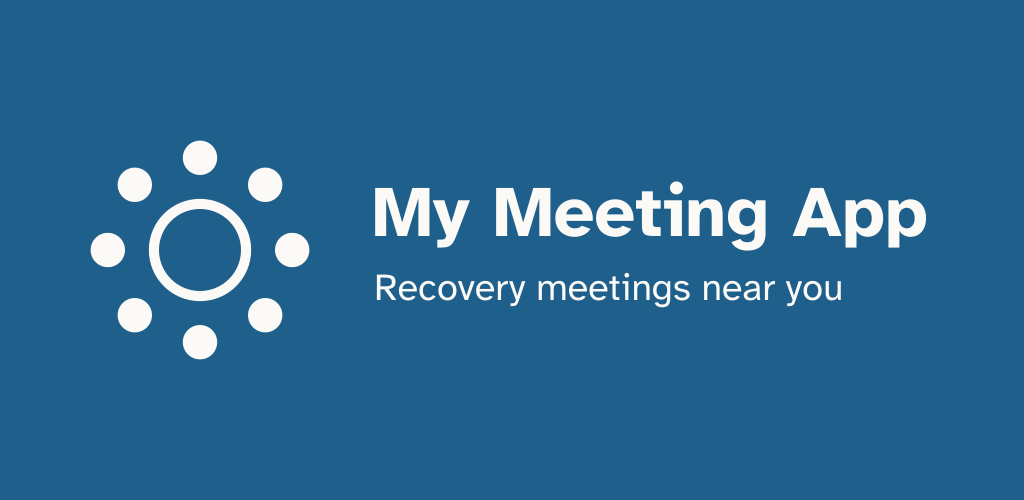
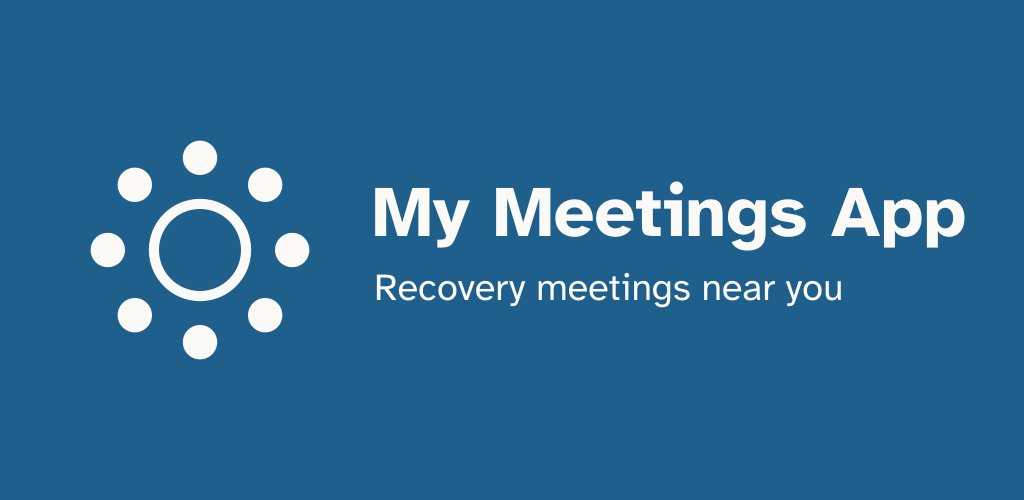
feat(brand): the app is My Meetings App
BRAND.name, the home-screen name, the website, both store listings (title now
just "My Meetings App", 30-character limit), the Play feature graphic, SPEC and
docs. The technical slug stays mymeetingapp (bundle id, Expo slug, User-Agent).
The App Store name changes with 1.0.1: 1.0's listing is locked in review.

Changed region(s): [[0.75, 0.36, 0.9688, 0.51]]

diff --git a/apps/mobile/test/nearby.test.tsx b/apps/mobile/test/nearby.test.tsx
@@ -248,7 +248,7 @@ describe("Nearby without location", () => {
     await api.close();
     await fireEvent.press(screen.getByRole("button", { name: "Use my location" }));
     expect(await screen.findByRole("alert")).toHaveTextContent(
-      "We couldn't reach My Meeting App, and this isn't saved on your phone yet. Check your connection and try again.",
+      "We couldn't reach My Meetings App, and this isn't saved on your phone yet. Check your connection and try again.",
     );
     api = await startApi();
   });
@@ -371,7 +371,7 @@ describe("Nearby with location", () => {
     await fireEvent.press(await screen.findByRole("button", { name: "Use my location" }));
     expect(
       await screen.findByText(
-        "Location is off for My Meeting App. Search by city, zip code or address instead, or turn location on in Settings.",
+        "Location is off for My Meetings App. Search by city, zip code or address instead, or turn location on in Settings.",
       ),
     ).toBeOnTheScreen();
     const settings = screen.getByRole("button", { name: "Open Settings" });
@@ -390,7 +390,7 @@ describe("Nearby with location", () => {
     await fireEvent.press(await screen.findByRole("button", { name: "Open Settings" }));
     expect(
       await screen.findByText(
-        "This phone couldn't open Settings. You can turn location on for My Meeting App in the Settings app.",
+        "This phone couldn't open Settings. You can turn location on for My Meetings App in the Settings app.",
       ),
     ).toBeOnTheScreen();
   });
@@ -1186,7 +1186,7 @@ describe("results", () => {
     await fireEvent.press(await screen.findByRole("button", { name: "Maryville, TN" }));
     expect(
       await screen.findByText(
-        "Showing the copy saved today at 6:00 AM. We couldn't reach My Meeting App, so it may be out of date.",
+        "Showing the copy saved today at 6:00 AM. We couldn't reach My Meetings App, so it may be out of date.",
       ),
     ).toBeOnTheScreen();
     expect(screen.getByText("Near Group")).toBeOnTheScreen();
@@ -1205,7 +1205,7 @@ describe("results", () => {
     await fireEvent.press(await screen.findByRole("button", { name: "Maryville, TN" }));
     expect(
       await screen.findByText(
-        "Showing the copy saved today at 3:00 PM. We couldn't reach My Meeting App, so it may be out of date.",
+        "Showing the copy saved today at 3:00 PM. We couldn't reach My Meetings App, so it may be out of date.",
       ),
     ).toBeOnTheScreen();
     expect(screen.getByText("No in-person meetings within 16 miles of Maryville, TN.")).toBeOnTheScreen();
@@ -1216,7 +1216,7 @@ describe("results", () => {
     await launchNearby();
     await searchFor("Maryville, TN");
     expect(await screen.findByRole("alert")).toHaveTextContent(
-      "We couldn't reach My Meeting App, and this isn't saved on your phone yet. Check your connection and try again.",
+      "We couldn't reach My Meetings App, and this isn't saved on your phone yet. Check your connection and try again.",
     );
     expect(screen.getByRole("button", { name: "Change place" })).toBeOnTheScreen();
   });
@@ -1233,7 +1233,7 @@ describe("results", () => {
     await fireEvent.press(await screen.findByRole("button", { name: "Use my location" }));
     expect(
       await screen.findByText(
-        "Showing your last search, near Maryville, TN, saved today at 6:40 AM. We couldn't reach My Meeting App, so it may be out of date.",
+        "Showing your last search, near Maryville, TN, saved today at 6:40 AM. We couldn't reach My Meetings App, so it may be out of date.",
       ),
     ).toBeOnTheScreen();
     expect(screen.getByText("Near Maryville, TN")).toBeOnTheScreen();
@@ -1273,7 +1273,7 @@ describe("results", () => {
     await searchFor("Maryville, TN");
     expect(
       await screen.findByText(
-        "Showing your last search, near your earlier location, saved today at 6:40 AM. We couldn't reach My Meeting App, so it may be out of date.",
+        "Showing your last search, near your earlier location, saved today at 6:40 AM. We couldn't reach My Meetings App, so it may be out of date.",
       ),
     ).toBeOnTheScreen();
     expect(screen.getByText("Near your earlier location")).toBeOnTheScreen();
@@ -1391,7 +1391,7 @@ describe("Search farther", () => {
     await fireEvent.press(button);
     expect(
       await screen.findByText(
-        "Showing your last search, near Maryville, TN, saved today at 5:30 AM. We couldn't reach My Meeting App, so it may be out of date.",
+        "Showing your last search, near Maryville, TN, saved today at 5:30 AM. We couldn't reach My Meetings App, so it may be out of date.",
       ),
     ).toBeOnTheScreen();
     expect(screen.getByText(NONE_NEAR)).toBeOnTheScreen();

diff --git a/apps/mobile/test/app-shell.test.tsx b/apps/mobile/test/app-shell.test.tsx
@@ -211,14 +211,14 @@ describe("the app config", () => {
     expect(config.android.package).toBe("com.goodersoftware.mymeetingapp");
   });
 
-  it("shows the brand's name, My Meeting App, under the icon on both platforms", () => {
-    expect(BRAND.name).toBe("My Meeting App");
-    expect(Config.parse(appConfig(CONTEXT)).ios.infoPlist.CFBundleDisplayName).toBe("My Meeting App");
+  it("shows the brand's name, My Meetings App, under the icon on both platforms", () => {
+    expect(BRAND.name).toBe("My Meetings App");
+    expect(Config.parse(appConfig(CONTEXT)).ios.infoPlist.CFBundleDisplayName).toBe("My Meetings App");
     const native = nativeConfig();
-    expect(native.ios.infoPlist.CFBundleDisplayName).toBe("My Meeting App");
+    expect(native.ios.infoPlist.CFBundleDisplayName).toBe("My Meetings App");
     expect(native.android.strings.resources.string).toContainEqual({
       $: { name: "app_name" },
-      _: "My Meeting App",
+      _: "My Meetings App",
     });
   }, 30_000);
 
@@ -251,7 +251,7 @@ describe("the app config", () => {
     ]);
     expect(config.android.blockedPermissions).toContain("android.permission.ACCESS_BACKGROUND_LOCATION");
     const [, options] = LocationPlugin.parse(config.plugins.find((plugin) => plugin[0] === "expo-location"));
-    expect(options.locationWhenInUsePermission).toMatch(/^My Meeting App /);
+    expect(options.locationWhenInUsePermission).toMatch(/^My Meetings App /);
     expect(options.locationWhenInUsePermission).toContain("rounded to about 1 km");
     // Spec §8: the attendance check uses the same permission, so its purpose string names it too.
     expect(options.locationWhenInUsePermission).toContain("check you're near a meeting you tag");
@@ -262,14 +262,14 @@ describe("the app config", () => {
   it("carries an honest motion purpose string, saying the app never uses motion data", () => {
     const config = Config.parse(appConfig(CONTEXT));
     const [, options] = LocationPlugin.parse(config.plugins.find((plugin) => plugin[0] === "expo-location"));
-    expect(options.motionUsagePermission).toMatch(/^My Meeting App /);
+    expect(options.motionUsagePermission).toMatch(/^My Meetings App /);
     expect(options.motionUsagePermission).toContain("never");
   });
 
   it("explains the attendance check's one-time request for full accuracy (spec §8, §11)", () => {
     const config = Config.parse(appConfig(CONTEXT));
     expect(config.ios.infoPlist.NSLocationTemporaryUsageDescriptionDictionary.AttendanceCheck).toBe(
-      "My Meeting App checks that you're near the meeting, to stop spam, while the app is open. Your location never leaves your phone.",
+      "My Meetings App checks that you're near the meeting, to stop spam, while the app is open. Your location never leaves your phone.",
     );
   });
 

diff --git a/apps/mobile/test/launch.test.tsx b/apps/mobile/test/launch.test.tsx
@@ -30,7 +30,7 @@ async function expectNotBlocked() {
     expect(await readCache("config")).not.toBeNull();
   });
   await waitFor(() => {
-    expect(screen.queryByText("Please update My Meeting App")).toBeNull();
+    expect(screen.queryByText("Please update My Meetings App")).toBeNull();
     expect(screen.getByText("Search by city, zip code or address, or use your location.")).toBeOnTheScreen();
   });
 }
@@ -40,7 +40,7 @@ describe("forced upgrade", () => {
     const openURL = jest.spyOn(Linking, "openURL").mockResolvedValue(true);
     api.reply("/api/v1/config", tooOld);
     await renderApp("/");
-    expect(await screen.findByText("Please update My Meeting App")).toBeOnTheScreen();
+    expect(await screen.findByText("Please update My Meetings App")).toBeOnTheScreen();
     expect(screen.queryByText("Search by city, zip code or address, or use your location.")).toBeNull();
     await fireEvent.press(screen.getByRole("button", { name: "Update the app" }));
     expect(openURL).toHaveBeenCalledWith("http://127.0.0.1:3197/");
@@ -52,7 +52,7 @@ describe("forced upgrade", () => {
     await waitFor(async () => {
       expect(await readCache("config")).not.toBeNull();
     });
-    expect(screen.queryByText("Please update My Meeting App")).toBeNull();
+    expect(screen.queryByText("Please update My Meetings App")).toBeNull();
     expect(screen.getByText("Meetings you save appear here.")).toBeOnTheScreen();
 
     await cleanup();
@@ -66,7 +66,7 @@ describe("forced upgrade", () => {
     await waitFor(async () => {
       expect(await readCache("config")).not.toBeNull();
     });
-    expect(screen.queryByText("Please update My Meeting App")).toBeNull();
+    expect(screen.queryByText("Please update My Meetings App")).toBeNull();
     expect(await screen.findByText("365 days")).toBeOnTheScreen();
     expect(screen.getByText("988 Suicide & Crisis Lifeline")).toBeOnTheScreen();
   });
@@ -75,7 +75,7 @@ describe("forced upgrade", () => {
     await writeCache("config", tooOld);
     await api.close();
     await renderApp("/online");
-    expect(await screen.findByText("Please update My Meeting App")).toBeOnTheScreen();
+    expect(await screen.findByText("Please update My Meetings App")).toBeOnTheScreen();
     api = await startApi();
   });
 
@@ -106,7 +106,7 @@ describe("forced upgrade", () => {
     api.reply("/api/v1/config", tooOld);
     await play("background");
     await play("active");
-    expect(await screen.findByText("Please update My Meeting App")).toBeOnTheScreen();
+    expect(await screen.findByText("Please update My Meetings App")).toBeOnTheScreen();
   });
 
   it("compares the installed version", async () => {

diff --git a/apps/mobile/test/map.test.tsx b/apps/mobile/test/map.test.tsx
@@ -756,7 +756,7 @@ describe("the map's notices", () => {
     await moveTo(map, PAN);
     expect(
       await screen.findByText(
-        "Showing your last search, near Maryville, TN, saved today at 3:40 PM. We couldn't reach My Meeting App, so it may be out of date.",
+        "Showing your last search, near Maryville, TN, saved today at 3:40 PM. We couldn't reach My Meetings App, so it may be out of date.",
       ),
     ).toBeOnTheScreen();
     expect(screen.getByText("Near Maryville, TN")).toBeOnTheScreen();
@@ -774,7 +774,7 @@ describe("the map's notices", () => {
     await moveTo(map, { latitude: 35.91, longitude: -84.11, latitudeDelta: 0.2, longitudeDelta: 0.3 });
     expect(
       await screen.findByText(
-        "Showing your last search, near the map area you searched, saved today at 3:40 PM. We couldn't reach My Meeting App, so it may be out of date.",
+        "Showing your last search, near the map area you searched, saved today at 3:40 PM. We couldn't reach My Meetings App, so it may be out of date.",
       ),
     ).toBeOnTheScreen();
     expect(screen.getByText("Near the map area you searched")).toBeOnTheScreen();
@@ -800,7 +800,7 @@ describe("the map's notices", () => {
     await fireEvent.press(await screen.findByRole("button", { name: "Maryville, TN" }));
     expect(
       await screen.findByText(
-        "Showing the copy saved today at 3:00 PM. We couldn't reach My Meeting App, so it may be out of date.",
+        "Showing the copy saved today at 3:00 PM. We couldn't reach My Meetings App, so it may be out of date.",
       ),
     ).toBeOnTheScreen();
     expect(screen.getByRole("button", { name: "Far Group, Mon 7:00 PM" })).toBeOnTheScreen();

diff --git a/apps/mobile/test/offline-cache.test.tsx b/apps/mobile/test/offline-cache.test.tsx
@@ -333,7 +333,7 @@ describe("useCachedRead with SavedCopyNote", () => {
     expect(await screen.findByText(`${String(VOCABULARY.tags.length)} tags`)).toBeOnTheScreen();
     expect(
       screen.getByText(
-        "Showing the copy saved today at 3:40 PM. We couldn't reach My Meeting App, so it may be out of date.",
+        "Showing the copy saved today at 3:40 PM. We couldn't reach My Meetings App, so it may be out of date.",
       ),
     ).toBeOnTheScreen();
     api = await startApi();
@@ -344,7 +344,7 @@ describe("useCachedRead with SavedCopyNote", () => {
     await render(<VocabularyCount />);
     expect(
       await screen.findByText(
-        "We couldn't reach My Meeting App, and this isn't saved on your phone yet. Check your connection and try again.",
+        "We couldn't reach My Meetings App, and this isn't saved on your phone yet. Check your connection and try again.",
       ),
     ).toBeOnTheScreen();
     api = await startApi();
@@ -359,7 +359,7 @@ describe("useCachedRead with SavedCopyNote", () => {
     expect(await screen.findByText(`${String(VOCABULARY.tags.length)} tags`)).toBeOnTheScreen();
     expect(
       screen.getByText(
-        "Showing the copy saved today at 3:40 PM. My Meeting App is having trouble right now, so it may be out of date.",
+        "Showing the copy saved today at 3:40 PM. My Meetings App is having trouble right now, so it may be out of date.",
       ),
     ).toBeOnTheScreen();
   });

diff --git a/apps/mobile/test/tag-meeting.test.tsx b/apps/mobile/test/tag-meeting.test.tsx
@@ -228,10 +228,10 @@ describe("Tag this meeting", () => {
     api.reply(PATH, { error: { code: "server_error", message: "Something went wrong." } }, 500);
     api.reply("/api/v1/tags", { meetingId: ID, tags: COUNTS }, 201, "POST");
     await openMeeting();
-    expect(screen.getByText(/My Meeting App is having trouble right now/)).toBeOnTheScreen();
+    expect(screen.getByText(/My Meetings App is having trouble right now/)).toBeOnTheScreen();
     await tag("Welcoming", "Coffee");
     expect(await screen.findByLabelText("Welcoming 15 people")).toBeOnTheScreen();
-    expect(screen.getByText(/My Meeting App is having trouble right now/)).toBeOnTheScreen();
+    expect(screen.getByText(/My Meetings App is having trouble right now/)).toBeOnTheScreen();
   });
 
   it("still offers tagging when the phone's own record can't be read", async () => {
@@ -400,7 +400,7 @@ describe("Tag this meeting", () => {
     await openMeeting();
     await tag("Quiet");
     expect(await screen.findByRole("alert")).toHaveTextContent(
-      "We couldn't reach My Meeting App, so we can't tell whether your tags were saved. Check your connection and try again.",
+      "We couldn't reach My Meetings App, so we can't tell whether your tags were saved. Check your connection and try again.",
     );
     expect(screen.getByRole("checkbox", { name: "Quiet" })).toBeChecked();
     expect(await myTagsOn(ID)).toBeNull();

diff --git a/apps/web/test/site.e2e.ts b/apps/web/test/site.e2e.ts
@@ -10,10 +10,10 @@ describe("the public site", () => {
     expect(res.status).toBe(200);
     const html = await res.text();
     expect(html).toContain(
-      "My Meeting App<!-- --> is not affiliated with or endorsed by Alcoholics Anonymous",
+      "My Meetings App<!-- --> is not affiliated with or endorsed by Alcoholics Anonymous",
     );
-    expect(html).toContain('<meta name="application-name" content="My Meeting App"/>');
-    expect(html).toContain('<a class="wordmark" href="/">My Meeting App</a>');
+    expect(html).toContain('<meta name="application-name" content="My Meetings App"/>');
+    expect(html).toContain('<a class="wordmark" href="/">My Meetings App</a>');
     expect(html).toMatch(/<link[^>]+href="\/_next\/static\/media\/[^"]+\.woff2"/);
     expect(html).not.toContain("fonts.googleapis.com");
   });
@@ -52,7 +52,7 @@ describe("search engine files and links", () => {
       const url = `https://mymeetingapp.test${path === "/" ? "" : path}`;
       expect(html).toContain(`<link rel="canonical" href="${url}"/>`);
       expect(html).toContain(`<meta property="og:url" content="${url}"/>`);
-      expect(html).toContain('<meta property="og:site_name" content="My Meeting App"/>');
+      expect(html).toContain('<meta property="og:site_name" content="My Meetings App"/>');
     },
   );
 });

diff --git a/apps/web/test/terms-and-support.test.tsx b/apps/web/test/terms-and-support.test.tsx
@@ -24,9 +24,9 @@ describe("the terms of use", () => {
   });
 
   it("name the app they cover", () => {
-    expect(text).toContain("These terms cover the My Meeting App app and this website");
-    expect(text).toContain("My Meeting App is an independent app.");
-    expect(termsMetadata.description).toBe("The terms for using the My Meeting App app and website.");
+    expect(text).toContain("These terms cover the My Meetings App app and this website");
+    expect(text).toContain("My Meetings App is an independent app.");
+    expect(termsMetadata.description).toBe("The terms for using the My Meetings App app and website.");
   });
 });
 
@@ -34,9 +34,9 @@ describe("the support page", () => {
   const text = renderText(<SupportPage />);
 
   it("names the app", () => {
-    expect(text).toContain("don't want My Meeting App to use it");
+    expect(text).toContain("don't want My Meetings App to use it");
     expect(supportMetadata.description).toBe(
-      "Help with My Meeting App, and how intergroups and groups can opt out.",
+      "Help with My Meetings App, and how intergroups and groups can opt out.",
     );
   });
 

diff --git a/apps/mobile/test/meeting-detail.test.tsx b/apps/mobile/test/meeting-detail.test.tsx
@@ -279,7 +279,7 @@ describe("the meeting page", () => {
     await renderApp(`/meeting/${ID}`);
     expect(
       await screen.findByText(
-        "We couldn't reach My Meeting App, and this isn't saved on your phone yet. Check your connection and try again.",
+        "We couldn't reach My Meetings App, and this isn't saved on your phone yet. Check your connection and try again.",
       ),
     ).toBeOnTheScreen();
     expect(screen.queryByRole("button", { name: "Join online" })).toBeNull();
@@ -368,7 +368,7 @@ describe("the meeting page", () => {
     await renderApp(`/meeting/${ID}`);
     expect(
       await screen.findByText(
-        "Showing the copy saved today at 3:00 PM. We couldn't reach My Meeting App, so it may be out of date.",
+        "Showing the copy saved today at 3:00 PM. We couldn't reach My Meetings App, so it may be out of date.",
       ),
     ).toBeOnTheScreen();
     expect(screen.getByText(WHEN)).toBeOnTheScreen();

diff --git a/apps/mobile/test/edit-tags.test.tsx b/apps/mobile/test/edit-tags.test.tsx
@@ -185,7 +185,7 @@ describe("a meeting this phone tagged", () => {
     await remove();
     expect(
       await screen.findByText(
-        "We couldn't reach My Meeting App, so we can't tell whether your tags were removed. Check your connection and try again.",
+        "We couldn't reach My Meetings App, so we can't tell whether your tags were removed. Check your connection and try again.",
       ),
     ).toBeOnTheScreen();
     expect(await myTagsOn(ID)).toMatchObject({ tags: ["welcoming"] });
@@ -199,7 +199,7 @@ describe("a meeting this phone tagged", () => {
     await remove();
     expect(
       await screen.findByText(
-        "We couldn't reach My Meeting App, so we can't tell whether your tags were removed. Check your connection and try again.",
+        "We couldn't reach My Meetings App, so we can't tell whether your tags were removed. Check your connection and try again.",
       ),
     ).toBeOnTheScreen();
     api.reply(

diff --git a/apps/mobile/test/online-tab.test.tsx b/apps/mobile/test/online-tab.test.tsx
@@ -190,7 +190,7 @@ describe("the Online tab", () => {
     await renderApp("/online");
     expect(
       await screen.findByText(
-        "We couldn't reach My Meeting App, and this isn't saved on your phone yet. Check your connection and try again.",
+        "We couldn't reach My Meetings App, and this isn't saved on your phone yet. Check your connection and try again.",
       ),
     ).toBeOnTheScreen();
     expect(screen.queryByText(NOTHING_ON)).toBeNull();
@@ -210,7 +210,7 @@ describe("the Online tab", () => {
     expect(await card(`Early Evening, Started 6:00 PM, ${WELCOMING}`)).toBeOnTheScreen();
     expect(
       screen.getByText(
-        "Showing the copy saved today at 3:40 PM. My Meeting App is having trouble right now, so it may be out of date.",
+        "Showing the copy saved today at 3:40 PM. My Meetings App is having trouble right now, so it may be out of date.",
       ),
     ).toBeOnTheScreen();
   });

diff --git a/apps/web/test/metrics.e2e.ts b/apps/web/test/metrics.e2e.ts
@@ -40,8 +40,8 @@ describe("/metrics in the built app", () => {
     expect(res.headers.get("x-robots-tag")).toBe("noindex, nofollow");
     const html = await res.text();
     expect(html).toContain('<meta name="robots" content="noindex, nofollow"/>');
-    expect(html).toContain("<title>Metrics · My Meeting App</title>");
-    expect(html).toMatch(/<a class="wordmark" href="\/metrics">My Meeting App<!-- --> metrics<\/a>/);
+    expect(html).toContain("<title>Metrics · My Meetings App</title>");
+    expect(html).toMatch(/<a class="wordmark" href="\/metrics">My Meetings App<!-- --> metrics<\/a>/);
     expect(html).toContain("broken-feed");
     expect(html).toContain("HTTP 503 from the feed");
     expect(html).not.toContain(DEVICE_A_HASH.slice(0, 12));
